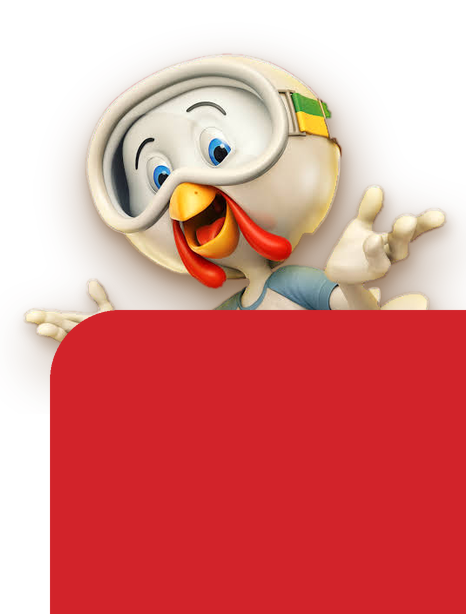
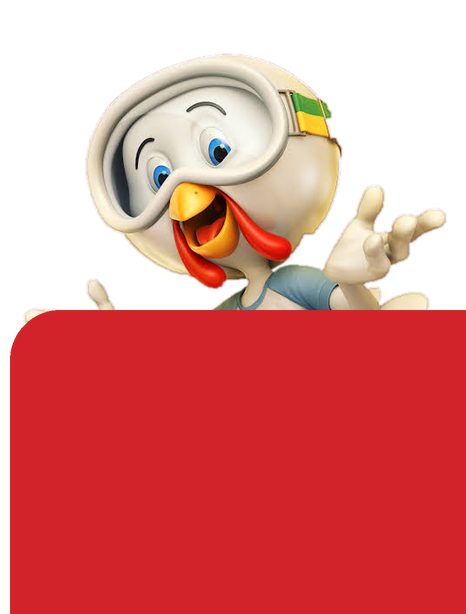
Sadia: Lek Trek sem sombra, base mais larga sob a mao esquerda
Claude-Session: https://claude.ai/code/session_019BU3hUhN3BfwpUyH2ASXNC

diff --git a/ferramentas/suporte_lektrek.py b/ferramentas/suporte_lektrek.py
@@ -7,7 +7,7 @@ sys.path.insert(0, 'ferramentas')
 from asset import sombra
 
 X0, Y0, X1, Y1 = 1690, 310, 2156, 924     # caixa do elemento na peca
-BASE_TOP, BASE_X, RAIO = 620, 1740, 70    # base vermelha: topo, borda esquerda, canto arredondado
+BASE_TOP, BASE_X, RAIO = 620, 1700, 50    # base vermelha: topo, borda esquerda, canto arredondado
 VERM = (210, 35, 42, 255)
 LEK_W, LEK_X, LEK_AFUNDA = 430, 1712, 34  # largura do mascote, x na peca, quanto o peito entra atras da base
 
@@ -16,9 +16,9 @@ def montar(saida):
     c = Image.new('RGBA', (W, H), (0, 0, 0, 0))
     lek = Image.open('brf/sadia/elementos/lektrek_recorte.png').convert('RGBA')
     lek = lek.resize((LEK_W, round(lek.height * LEK_W / lek.width)), Image.LANCZOS)
-    ls = sombra(lek, '#5A2A00')                   # folga de 70 px em volta
+    # sem sombra: na parede amarela ela virava halo escuro (revisor, 18/11/2026)
     y_lek = BASE_TOP + LEK_AFUNDA - lek.height     # topo do mascote na peca
-    c.alpha_composite(ls, (LEK_X - X0 - 70, y_lek - Y0 - 70))
+    c.alpha_composite(lek, (LEK_X - X0, y_lek - Y0))
     base = Image.new('L', (W * 2, H * 2), 0)
     ImageDraw.Draw(base).rounded_rectangle(((BASE_X - X0) * 2, (BASE_TOP - Y0) * 2, W * 2 + 400, H * 2 + 400), RAIO * 2, fill=255)
     base = base.resize((W, H), Image.LANCZOS)
